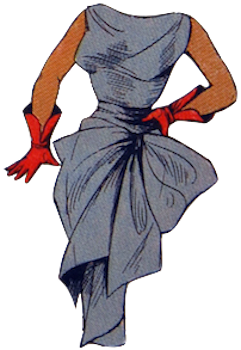
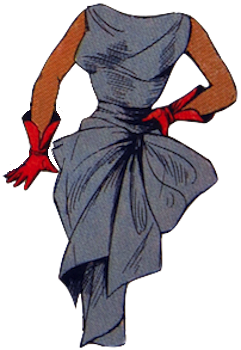
picture adjustments

Changed region(s): [[0.0, 0.2857, 0.2614, 0.5714], [0.7261, 0.3143, 0.8133, 0.3429], [0.668, 0.3429, 0.6971, 0.3714]]

diff --git a/styles.css b/styles.css
@@ -20,12 +20,24 @@ nav {
   background: linear-gradient();
   display: flex;
   flex-direction: row;
+  flex-wrap: wrap;
   align-items: center;
   justify-content: space-around;
   position: fixed;
   top: 10px;
   left:0; right: 0;
   z-index: 30;
+}
+
+#intro-box {
+  display: block;
+  margin: 100px auto;
+  width: 90%;
+  background-color: rgba(252, 252, 212,.7);
+  color: white;
+  font-family: sans-serif;
+  text-align: center;
+  background-color: rgba(173,109,104,.9);
 }
 
 #box1, #box2, #box3, #box4, #box5 {
@@ -35,34 +47,20 @@ nav {
   display: none;
 }
 
-.torchy-dress {
-  height: 320px;
-  position: fixed;
-  z-index: 10;
-}
-
-.torchy-dress2 {
-  height: 260px;
-  position: fixed;
-  z-index: 10;
-}
-
-.torchy-dress3 {
-  height: 260px;
-  position: fixed;
-  z-index: 10;
-}
-
-.torchy-dress4 {
-  height: 260px;
+.torchy-dress,.torchy-dress2,.torchy-dress3,.torchy-dress4 {
+  height: 40vh;
   position: fixed;
   z-index: 10;
 }
 
 .torchy-dress5 {
-  height: 260px;
-  position: fixed;
+  position: absolute;
+  height: 38vh;
   z-index: 10;
+}
+
+#t20 {
+  height: 50vh;
 }
 
 .torchy-hat {
@@ -79,44 +77,43 @@ nav {
   position: fixed;
   top: 400px; left:75%;
 }
+#one {
+background-image: url("images/t1.png");
+}
+#two {
+  background-image: url("images/t2.png");
+}
+#three {
+  background-image: url("images/t3.png");
+}
 
-@media only screen and (min-width: 300px){
+#four {
+  background-image: url("images/t4.png");
+}
+
+#five {
+  background-image: url("images/t5.png");
+
+}
+
+@media only screen and (min-width: 300px) and (max-width: 519px){
 
   .button-dress {
-
+    background-color: rgba(251,250,222,1);
     border: 2px solid rgb(93,154,49);
     box-shadow: 0px 0px 10px 5px rgb(93,154,49);
     border-radius: 0%;
     text-align: center;
     font-size: 40px;
-    height: 125px;
-    width:150px;
+    height: 15vh;
+    width:15vw;
     background-repeat: no-repeat;
     background-position: center;
   }
 
-  #one {
-  background-image: url("images/t1.png");
-}
-  #two {
-    background-image: url("images/t2.png");
-  }
-  #three {
-    background-image: url("images/t3.png");
-  }
-
-  #four {
-    background-image: url("images/t4.png");
-  }
-
-  #five {
-    background-image: url("images/t5.png");
-
-  }
-
   #intro-box {
     display: block;
-    margin: 100px auto;
+    margin: 30% auto;
     width: 90%;
     background-color: rgba(252, 252, 212,.7);
     color: white;
@@ -174,6 +171,7 @@ nav {
 
   .torchy {
     filter: brightness(1.2);
+    height: 50vh;
     top: 20%;
     position: absolute;
     left:50%;
@@ -183,7 +181,7 @@ nav {
   .torchy-dress {
     filter: brightness(1.2);
     position: absolute;
-    height: 41%;
+    height: 40vh;
   }
 
   .torchy-dress2{
@@ -191,22 +189,11 @@ nav {
     height: 34%;
   }
 
-  .torchy-dress3,.torchy-dress4, .torchy-dress5 {
+  .torchy-dress3,.torchy-dress4 {
     position: absolute;
-    height: 34%;
+    height: 40vh;
   }
 
-  #t20 {
-    height: 45%;
-  }
-
-  #t16a {
-    height:36%;
-  }
-
-  #t, #t6, #t11, #t21, #t16  {
-    height: 55%;
-  }
   #t1,#t8,  #t12, #t23, #t16a{
     top:20%; left:10%;
     z-index: 5;
@@ -223,9 +210,7 @@ nav {
     top:50%; left:25%;
     z-index: 8;
   }
-  #t19, #t17{
-    height:35%;
-  }
+
   #t5 {
     height: 7%;
     top:300px; left:10%;
@@ -236,17 +221,111 @@ nav {
   }
 }
 
-@media only screen and (max-width:719px) {
+@media screen and (min-width:520px) {
+
+  .torchy {
+    height: 60vh;
+    filter: brightness(1.2);
+    top: 20%;
+    position: absolute;
+    left:60%;
+    z-index: 4;
+  }
 
   .button-dress {
-    border-radius: 50%;
-    width:100px;
-    padding: 40px;
-    font-size: 30px;
+    background-color: rgba(251,250,222,1);
+    border: 2px solid rgb(93,154,49);
+    box-shadow: 0px 0px 10px 5px rgb(93,154,49);
+    border-radius: 0%;
+    text-align: center;
+    height: 12vh;
+    width:15vw;
+    background-repeat: no-repeat;
+    background-position: center;
+  }
+
+  #intro-box {
+    display: block;
+    margin: 30% auto;
+    width: 90%;
+    background-color: rgba(252, 252, 212,.7);
+    color: white;
+    font-family: sans-serif;
+    text-align: center;
+    padding-bottom: 50px;
+    background-color: rgba(173,109,104,.9);
+  }
+
+  #intro-box h1{
+    padding: 50px;
+    font-size: 70px;
+  }
+  #intro-box p {
+    padding: 10px;
+    font-size: 35px;
   }
 
   #dress-box, #dress-box2, #dress-box3, #dress-box4, #dress-box5 {
     top: 100px; bottom: 20px;
+  }
+  .torchy {
+    filter: brightness(1.2);
+    top: 20%;
+    position: absolute;
+    left:50%;
+    z-index: 4;
+  }
+
+  .torchy-dress {
+    filter: brightness(1.2);
+    position: absolute;
+    height: 44vh;
+  }
+
+  .torchy-dress2{
+    position: absolute;
+    height: 37vh;
+  }
+
+  .torchy-dress3,.torchy-dress4 {
+    position: absolute;
+    height: 40vh;
+  }
+
+  .torchy-dress5 {
+    position: absolute;
+    height: 37vh;
+    z-index: 10;
+  }
+
+  #t20 {
+    height: 50vh;
+  }
+
+  #t1,#t8,  #t12, #t23, #t16a{
+    top:20%; left:10%;
+    z-index: 5;
+  }
+  #t2,#t13, #t24, #t17{
+    top:30%; left:15%;
+    z-index: 6;
+  }
+  #t3,#t9,#t14, #t22, #t20{
+    top:40%; left:20%;
+    z-index: 7;
+  }
+  #t4, #t7,#t15, #t19 {
+    top:50%; left:25%;
+    z-index: 8;
+  }
+
+  #t5 {
+    height: 7%;
+    top:300px; left:10%;
+  }
+  #t10 {
+    height:5%;
+    top:300px; left:10%;
   }
 
 

diff --git a/index.html b/index.html
@@ -75,7 +75,7 @@
   <section id="box5">
     <div id="dress-box5">
       <img id="t16" class="torchy" src="images/torchy16.png" alt="">
-      <img id="t16a" class="torchy-dress5" src="images/torchy16a.png" alt="">
+      <img id="t16a" class="torchy-dress5" src="images/torchy18.png" alt="">
       <img id="t17" class="torchy-dress5" src="images/torchy17.png" alt="">
       <img id="t19" class="torchy-dress5" src="images/torchy19.png" alt="">
       <img id="t20" class="torchy-dress5" src="images/torchy20.png" alt="">
@@ -83,6 +83,6 @@
       <img id="sig" src="images/jackie.png" alt="">
     </div>
   </section>
-  
+
   </body>
 </html>
